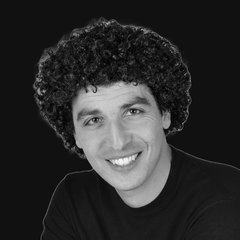
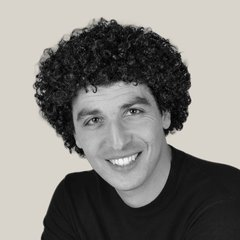
Tampon complet, tarifs compacts, avantages à part, vouvoiement de l'élève, portraits sur fond clair

diff --git a/style.css b/style.css
@@ -63,7 +63,7 @@ h2 { font-size: clamp(2.6rem, 6.5vw, 5.2rem); margin-bottom: 24px; }
 .signature strong { display: block; font-family: var(--titre); font-weight: 400; font-size: 2rem; text-transform: uppercase; line-height: 1.1; margin-top: 28px; }
 .signature span { font-size: 0.9rem; }
 .complices { display: flex; align-items: center; margin-top: 36px; padding-top: 24px; border-top: 2px solid var(--noir); max-width: 620px; }
-.complices img { width: 64px; height: 64px; border-radius: 50%; object-fit: cover; border: 2px solid var(--orange); }
+.complices img { width: 64px; height: 64px; border-radius: 50%; object-fit: cover; }
 .complices img + img { margin-left: -14px; }
 .complices p { margin-left: 16px; font-size: 0.95rem; font-weight: 500; }
 
@@ -83,8 +83,10 @@ h2 { font-size: clamp(2.6rem, 6.5vw, 5.2rem); margin-bottom: 24px; }
 .est-ouvert { background: var(--noir); color: var(--blanc); }
 .est-ouvert .etiquette { background: var(--orange); }
 .est-complet .carte-jour { color: var(--gris); }
+.est-complet .etiquette { top: 26px; left: auto; right: 18px; padding: 4px 14px 2px; background: transparent; color: var(--orange); border: 3px solid var(--orange); border-radius: 6px; box-shadow: 0 0 0 2px var(--blanc), 0 0 0 4px var(--orange); font-family: var(--titre); font-size: 2.4rem; letter-spacing: 0.1em; line-height: 1.1; transform: rotate(-12deg); opacity: 0.92; mask-image: repeating-linear-gradient(35deg, #000 0 5px, rgba(0,0,0,0.6) 5px 6px, #000 6px 11px, rgba(0,0,0,0.75) 11px 12px); -webkit-mask-image: repeating-linear-gradient(35deg, #000 0 5px, rgba(0,0,0,0.6) 5px 6px, #000 6px 11px, rgba(0,0,0,0.75) 11px 12px); }
 
-.plus { list-style: none; display: grid; grid-template-columns: repeat(3, 1fr); gap: 20px; margin-top: 40px; }
+.avantages { background: var(--creme); padding: 56px 0 72px; border-top: 2px solid var(--noir); }
+.plus { list-style: none; display: grid; grid-template-columns: repeat(3, 1fr); gap: 20px; }
 .plus li { padding: 0 28px; border-left: 3px solid var(--orange); font-size: 0.98rem; }
 .plus strong { display: block; font-family: var(--titre); font-weight: 400; font-size: 1.5rem; text-transform: uppercase; }
 
@@ -97,12 +99,14 @@ h2 { font-size: clamp(2.6rem, 6.5vw, 5.2rem); margin-bottom: 24px; }
 .spectacle-texte p:not(.surtitre) { font-size: 1.1rem; }
 
 /* Tarifs */
-.tarifs { display: grid; grid-template-columns: 1fr 2.4fr; gap: 40px; align-items: center; margin-top: 56px; padding-top: 44px; border-top: 2px solid var(--noir); }
-.tarifs h3 { font-size: 2.6rem; }
-.tarifs-liste { display: grid; grid-template-columns: repeat(3, 1fr); gap: 20px; }
-.tarif-prix { font-family: var(--titre); font-size: 4rem; line-height: 1; color: var(--orange); }
-.tarif-prix small { font-size: 1.4rem; color: var(--noir); }
-.tarif p:last-child { font-weight: 700; }
+.tarifs { display: flex; flex-wrap: wrap; align-items: center; gap: 16px 36px; margin-top: 28px; padding: 22px 28px; background: var(--noir); color: var(--blanc); }
+.tarifs-titre { font-family: var(--titre); font-size: 1.5rem; text-transform: uppercase; letter-spacing: 0.04em; }
+.tarifs-liste { display: flex; flex-wrap: wrap; gap: 12px 36px; }
+.tarif { display: flex; align-items: baseline; gap: 10px; }
+.tarif-prix { font-family: var(--titre); font-size: 2.2rem; line-height: 1; color: var(--orange); }
+.tarif-prix small { font-size: 1rem; color: var(--blanc); }
+.tarif p:last-child { font-size: 0.95rem; }
+.tarifs-note { margin-left: auto; font-size: 0.85rem; color: var(--gris); }
 
 /* Agenda */
 .evenement { display: grid; grid-template-columns: 220px 1fr auto; gap: 40px; align-items: center; padding: 40px 0; border-top: 1px solid rgba(255,255,255,0.25); }
@@ -150,7 +154,8 @@ h2 { font-size: clamp(2.6rem, 6.5vw, 5.2rem); margin-bottom: 24px; }
   .nav-liens { display: none; }
   .nav { justify-content: space-between; padding: 12px 20px; }
   .nav-logo img { height: 40px; }
-  .cartes, .plus, .tarifs, .lettre-grille, .pied-grille { grid-template-columns: 1fr; }
+  .cartes, .plus, .lettre-grille, .pied-grille { grid-template-columns: 1fr; }
+  .tarifs-note { margin-left: 0; }
   .lettre-grille { gap: 36px; }
   .lettre-portrait img { aspect-ratio: 1 / 1; object-position: center 20%; }
   .galerie-photos { grid-template-columns: repeat(2, 1fr); }
@@ -162,7 +167,6 @@ h2 { font-size: clamp(2.6rem, 6.5vw, 5.2rem); margin-bottom: 24px; }
 }
 @media (max-width: 560px) {
   body { font-size: 16px; }
-  .tarifs-liste { grid-template-columns: 1fr; }
   .hero-contenu { padding-bottom: 48px; }
 }
 @media (prefers-reduced-motion: reduce) { html { scroll-behavior: auto; } }

diff --git a/index.html b/index.html
@@ -46,11 +46,11 @@
     <div class="conteneur lettre-grille">
       <figure class="lettre-portrait"><img src="images/equipe-shawna.jpg" alt="Portrait de Shawna Municchi" loading="lazy"></figure>
       <div class="lettre-texte">
-        <p class="accroche">Personne ne joue comme toi.</p>
-        <p class="accroche fort">C'est là que ton métier commence.</p>
+        <p class="accroche">Personne ne joue comme vous.</p>
+        <p class="accroche fort">C'est là que votre métier commence.</p>
         <p>Je crois que les artistes qui nous bouleversent ne ressemblent à personne. Ils ont une histoire, une voix, un regard, une façon bien à eux d'occuper l'espace. Et un jour, ils ont osé s'en servir.</p>
         <p>J'ai créé Atypik pour ça. Pour qu'il existe à Genève un endroit où l'on apprend d'abord à se connaître, parce qu'un jeu sincère commence là. Un endroit exigeant et bienveillant, où l'on a le droit d'essayer, de se tromper, de recommencer.</p>
-        <p>Et comme le talent seul ne suffit pas, on te donne de quoi avancer : des textes, de l'écriture, et des rencontres avec celles et ceux qui font ce métier.</p>
+        <p>Et comme le talent seul ne suffit pas, on vous donne de quoi avancer : des textes, de l'écriture, et des rencontres avec celles et ceux qui font ce métier.</p>
         <p>Il y a une phrase de René Char que j'aime répéter :</p>
         <blockquote class="citation">« Impose ta chance, serre ton bonheur et va vers ton risque. À te regarder, ils s'habitueront. »</blockquote>
         <p class="signature"><strong>Shawna Municchi</strong><span>Fondatrice d'Atypik Théâtre et professeure</span></p>
@@ -69,14 +69,10 @@
       <h2>Trois rendez-vous par semaine</h2>
       <p class="intro">Les cours s'adressent aux comédiennes et comédiens semi-professionnels et professionnels, ainsi qu'aux amateurs qui préparent leur entrée dans le métier. Ils ont lieu à Genève, dans le secteur de Plainpalais. L'adresse exacte est communiquée à l'inscription.</p>
       <div class="cartes" id="cours-liste"></div>
-      <ul class="plus">
-        <li><strong>Des textes</strong>Une bibliothèque de scènes de théâtre et de cinéma, partagée entre les élèves.</li>
-        <li><strong>La bande démo</strong>Un travail d'écriture de scènes sur mesure, pensées pour la bande démo.</li>
-        <li><strong>Un book photo</strong>Des séances organisées avec des photographes, pour des portraits destinés aux castings.</li>
-      </ul>
       <div class="tarifs">
-        <div class="tarifs-titre"><h3>Tarifs</h3><p>Par mois. Places limitées dans chaque classe.</p></div>
+        <p class="tarifs-titre">Tarifs par mois</p>
         <div class="tarifs-liste" id="tarifs-liste"></div>
+        <p class="tarifs-note">Places limitées dans chaque classe.</p>
       </div>
     </div>
   </section>
@@ -87,6 +83,17 @@
       <p class="surtitre">Le spectacle de fin d'année</p>
       <h2>Une représentation publique en fin d'année</h2>
       <p>Le spectacle se construit tout au long de l'année. Fin juin, il est joué en public, sur la scène d'un théâtre genevois.</p>
+    </div>
+  </section>
+
+  <section class="avantages">
+    <div class="conteneur">
+      <p class="surtitre">Inclus pour les élèves</p>
+      <ul class="plus">
+        <li><strong>Des textes</strong>Une bibliothèque de scènes de théâtre et de cinéma, partagée entre les élèves.</li>
+        <li><strong>Votre bande démo</strong>Un travail d'écriture de scènes sur mesure, pour votre bande démo.</li>
+        <li><strong>Votre book photo</strong>Des séances organisées avec des photographes, pour des portraits destinés aux castings.</li>
+      </ul>
     </div>
   </section>
 

diff --git a/contenu.js b/contenu.js
@@ -23,7 +23,7 @@ window.ATYPIK = {
       jour: "Mardi",
       nom: "Caméra",
       description:
-        "Apprivoiser la caméra : casting, self-tape, scènes tournées. Écriture de scènes sur mesure pour la bande démo.",
+        "Apprivoiser la caméra : casting, self-tape, scènes tournées. Écriture de scènes sur mesure pour votre bande démo.",
       statut: "ouvert",
       note: "Ouverture le 3 novembre",
     },
@@ -31,7 +31,7 @@ window.ATYPIK = {
       jour: "Jeudi",
       nom: "Création",
       description:
-        "Construction du personnage, travail du texte, écriture et création collective. Cartes blanches, scénographie, mise en scène.",
+        "Construction du personnage, travail du texte, écriture, création collective, carte blanche.",
       statut: "complet",
     },
   ],

diff --git a/AGENTS.md b/AGENTS.md
@@ -22,8 +22,8 @@ Site statique, sans étape de build ni dépendance. Ne pas en ajouter.
 ## Règles
 
 - Toujours écrire avec les accents français. Pas de tiret long.
-- Ton : professionnel, simple, pédagogique. Pas de ton familier ni de formules accrocheuses. Phrases neutres, sans tutoiement, sauf dans le mot de Shawna (seul texte à la première personne). Le bloc partenaires vouvoie.
-- Ne jamais promettre d'images ou de bande démo livrée : le cours caméra travaille l'écriture de scènes pour la bande démo.
+- Ton : professionnel, simple, pédagogique. Pas de ton familier ni de formules accrocheuses. Le site s'adresse à l'élève en le vouvoyant (« votre bande démo »), y compris dans le mot de Shawna, seul texte à la première personne. Le bloc partenaires vouvoie aussi.
+- Ne jamais promettre d'images tournées : le cours caméra travaille l'écriture de scènes pour la bande démo de l'élève.
 - Prix en CHF.
 - Ne jamais publier le nombre exact de places par classe : écrire « places limitées ».
 - Ne jamais publier l'adresse exacte des cours : « secteur Plainpalais, adresse communiquée à l'inscription ».
